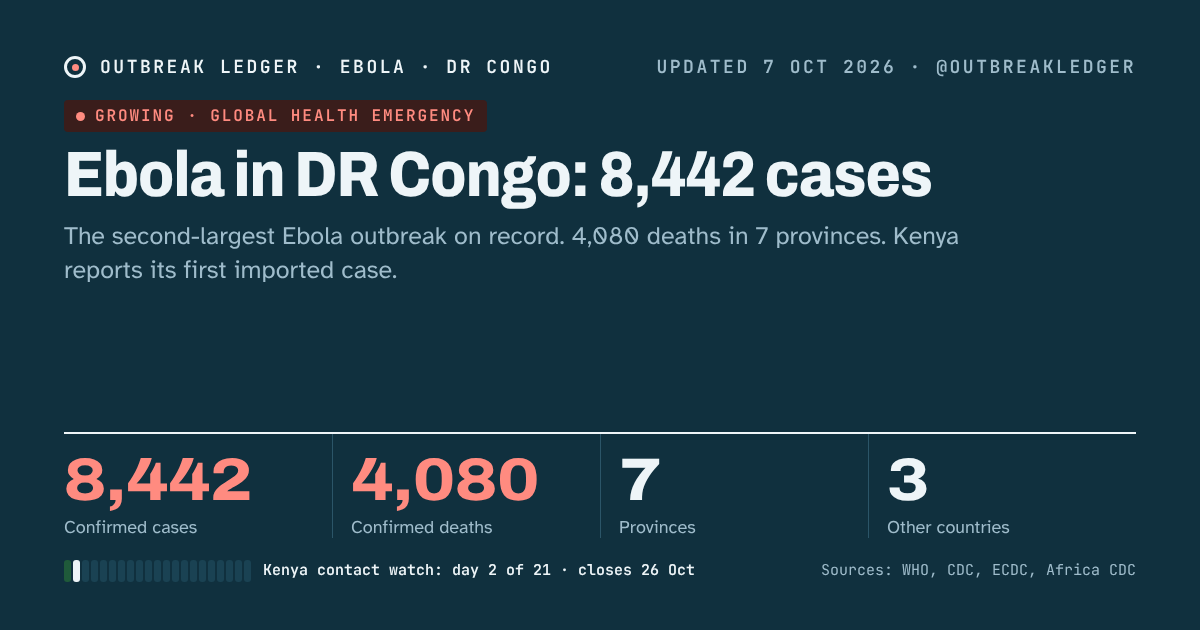
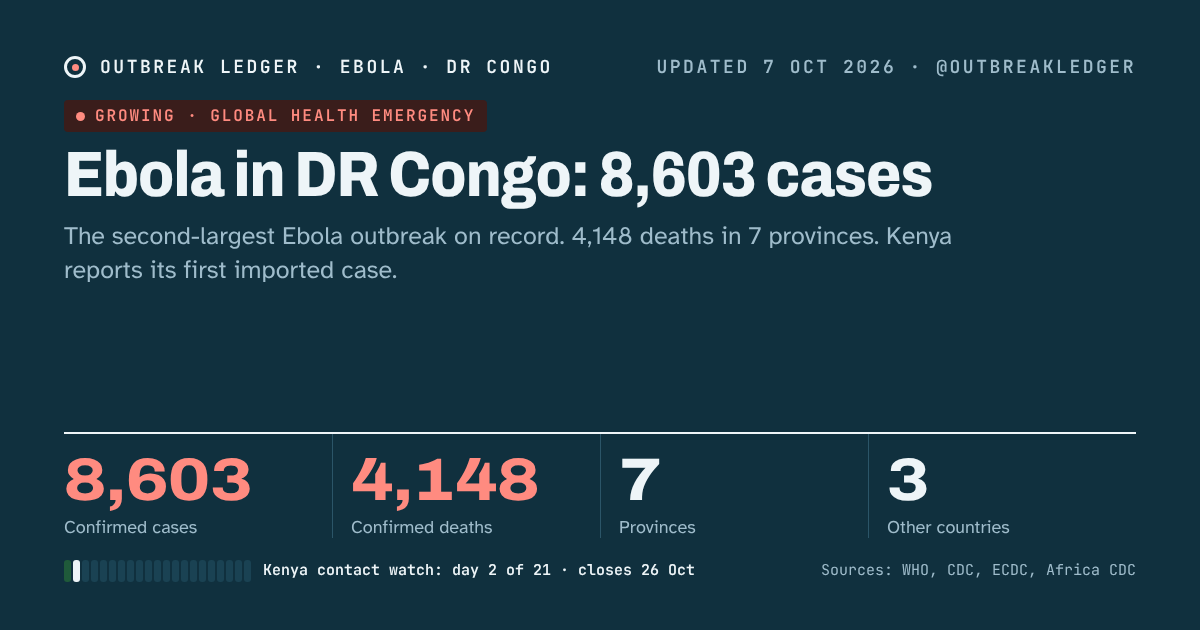
Trackers: ebola CDC/ECDC 4 Oct update; others checked
Ebola: 8,442 -> 8,603 confirmed cases, 4,080 -> 4,148 deaths (data to 4 Oct).
Measles, mpox, cholera, dengue, plague, marburg: checked, no change.

Claude-Session: https://claude.ai/code/session_01DjK934MGj4uKY77RiACNyU

diff --git a/site/ebola/share/latest-post.md b/site/ebola/share/latest-post.md
@@ -1,6 +1,4 @@
-DR Congo's Ebola outbreak: 8,442 confirmed cases and 4,080 deaths, the second-largest on record (CDC, 2 Oct). Kenya confirmed its first imported case on 5 Oct; the patient died.
-
-No licensed vaccine for this strain. Live tracker:
+DR Congo's Ebola outbreak: 8,603 confirmed cases and 4,148 deaths as of 4 Oct (CDC, ECDC). It remains the second-largest on record. No licensed vaccine for this strain; Kenya confirmed one imported case on 5 Oct. Live tracker:
 https://nhlebe1.github.io/ai-scheduler-platform/ebola/
 
-Sources: CDC (2 Oct), WHO Africa and Citizen Digital (5 Oct).
+Sources: CDC and ECDC (4 Oct), WHO Africa (5 Oct).
